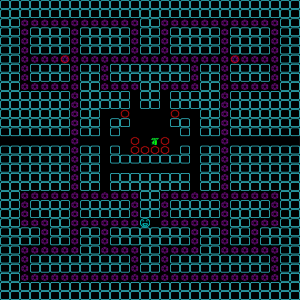
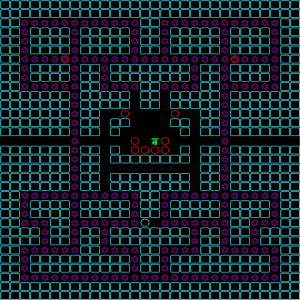
Fix bug that allows player to enter a wall. (saw alot on pacman level)

Changed region(s): [[0.0, 0.0, 1.0, 1.0], [0.45, 0.72, 0.51, 0.78]]

diff --git a/WindowsGame1/Game Objects/Physics Objects/PhysicsObject.cs b/WindowsGame1/Game Objects/Physics Objects/PhysicsObject.cs
@@ -331,20 +331,24 @@ namespace GravityShift
             float maxCollisionDepth = 0.0f;
             GameObject maxObject = null;
 
-            foreach(GameObject gameObj in objList)
+            foreach (GameObject gameObj in objList)
             {
+                if (gameObj.CollisionType == XmlKeys.COLLECTABLE)
+                    continue;
+
                 if (gameObj is StaticObject)
                 {
                     // 1st Priority
-                    float depth = GetCollitionDepth(gameObj).Length();
-                    if ((depth >= maxCollisionDepth)||
-                        (maxObject == null)||
+                    Vector2 depth = GetCollitionDepth(gameObj);
+                    float shallowDepth = Math.Min(Math.Abs(depth.X), Math.Abs(depth.Y));
+                    if ((shallowDepth >= maxCollisionDepth) ||
+                        (maxObject == null) ||
                         (maxObject is PhysicsObject))
                     {
-                        maxCollisionDepth = depth;// new deepest depth
+                        maxCollisionDepth = shallowDepth;// new deepest depth
                         maxObject = gameObj; // new top object
                     }
-                    
+
                 }
                 else if (gameObj is PhysicsObject)
                 {
@@ -352,13 +356,14 @@ namespace GravityShift
                     if (physObj.IsRail)
                     {
                         //2nd Priority
-                        float depth = GetCollitionDepth(physObj).Length();
-                        if (depth >= maxCollisionDepth)
+                        Vector2 depth = GetCollitionDepth(gameObj);
+                        float shallowDepth = Math.Min(Math.Abs(depth.X), Math.Abs(depth.Y));
+                        if (shallowDepth >= maxCollisionDepth)
                         {
                             if ((maxObject == null) ||
                                 (!(maxObject is StaticObject)))
                             {
-                                maxCollisionDepth = depth;// new deepest depth
+                                maxCollisionDepth = shallowDepth;// new deepest depth
                                 maxObject = physObj; // new top object
                             }
                         }
@@ -367,12 +372,13 @@ namespace GravityShift
                     else
                     {
                         //3rd priority
-                        float depth = GetCollitionDepth(physObj).Length();
-                        if (depth >= maxCollisionDepth)
+                        Vector2 depth = GetCollitionDepth(gameObj);
+                        float shallowDepth = Math.Min(Math.Abs(depth.X), Math.Abs(depth.Y));
+                        if (shallowDepth >= maxCollisionDepth)
                         {
                             if (maxObject == null)
                             {
-                                maxCollisionDepth = depth;// new deepest depth
+                                maxCollisionDepth = shallowDepth;// new deepest depth
                                 maxObject = physObj; // new top object
                             }
                             else if (maxObject is PhysicsObject)// Not Static
@@ -380,17 +386,19 @@ namespace GravityShift
                                 PhysicsObject maxPhys = (PhysicsObject)maxObject;
                                 if (!maxPhys.IsRail)
                                 {
-                                    maxCollisionDepth = depth;// new deepest depth
+                                    maxCollisionDepth = shallowDepth;// new deepest depth
                                     maxObject = physObj; // new top object
                                 }
                             }
                         }
-                        
+
                     }
                 }
             }//End foreach
-
-            HandleCollisions(maxObject);
+            if (maxObject != null)
+            {
+                HandleCollisions(maxObject);
+            }
         }
 
         /// <summary>
@@ -410,9 +418,6 @@ namespace GravityShift
                 return 1;
 
             Vector2 colDepth = GetCollitionDepth(otherObject);
-
-            if (colDepth.Length() > 10f) 
-            { }
 
             // handle the shallowest collision
            
